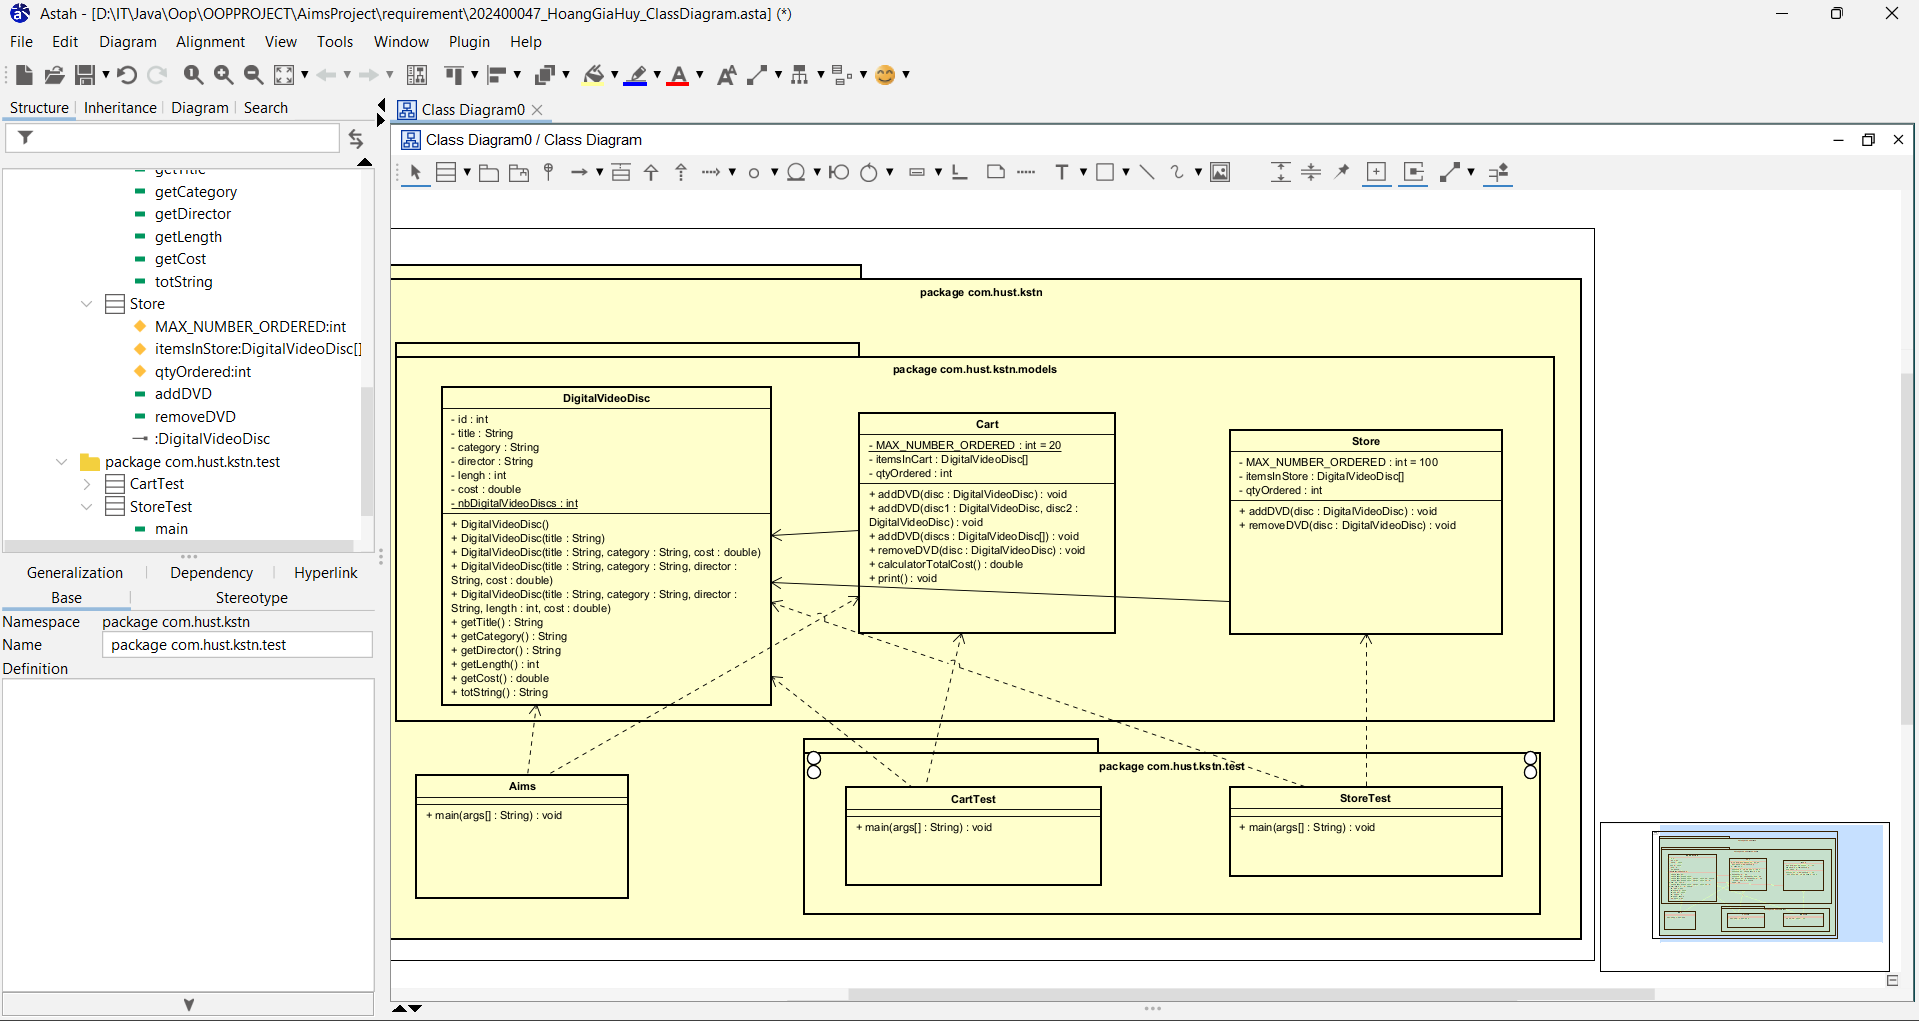
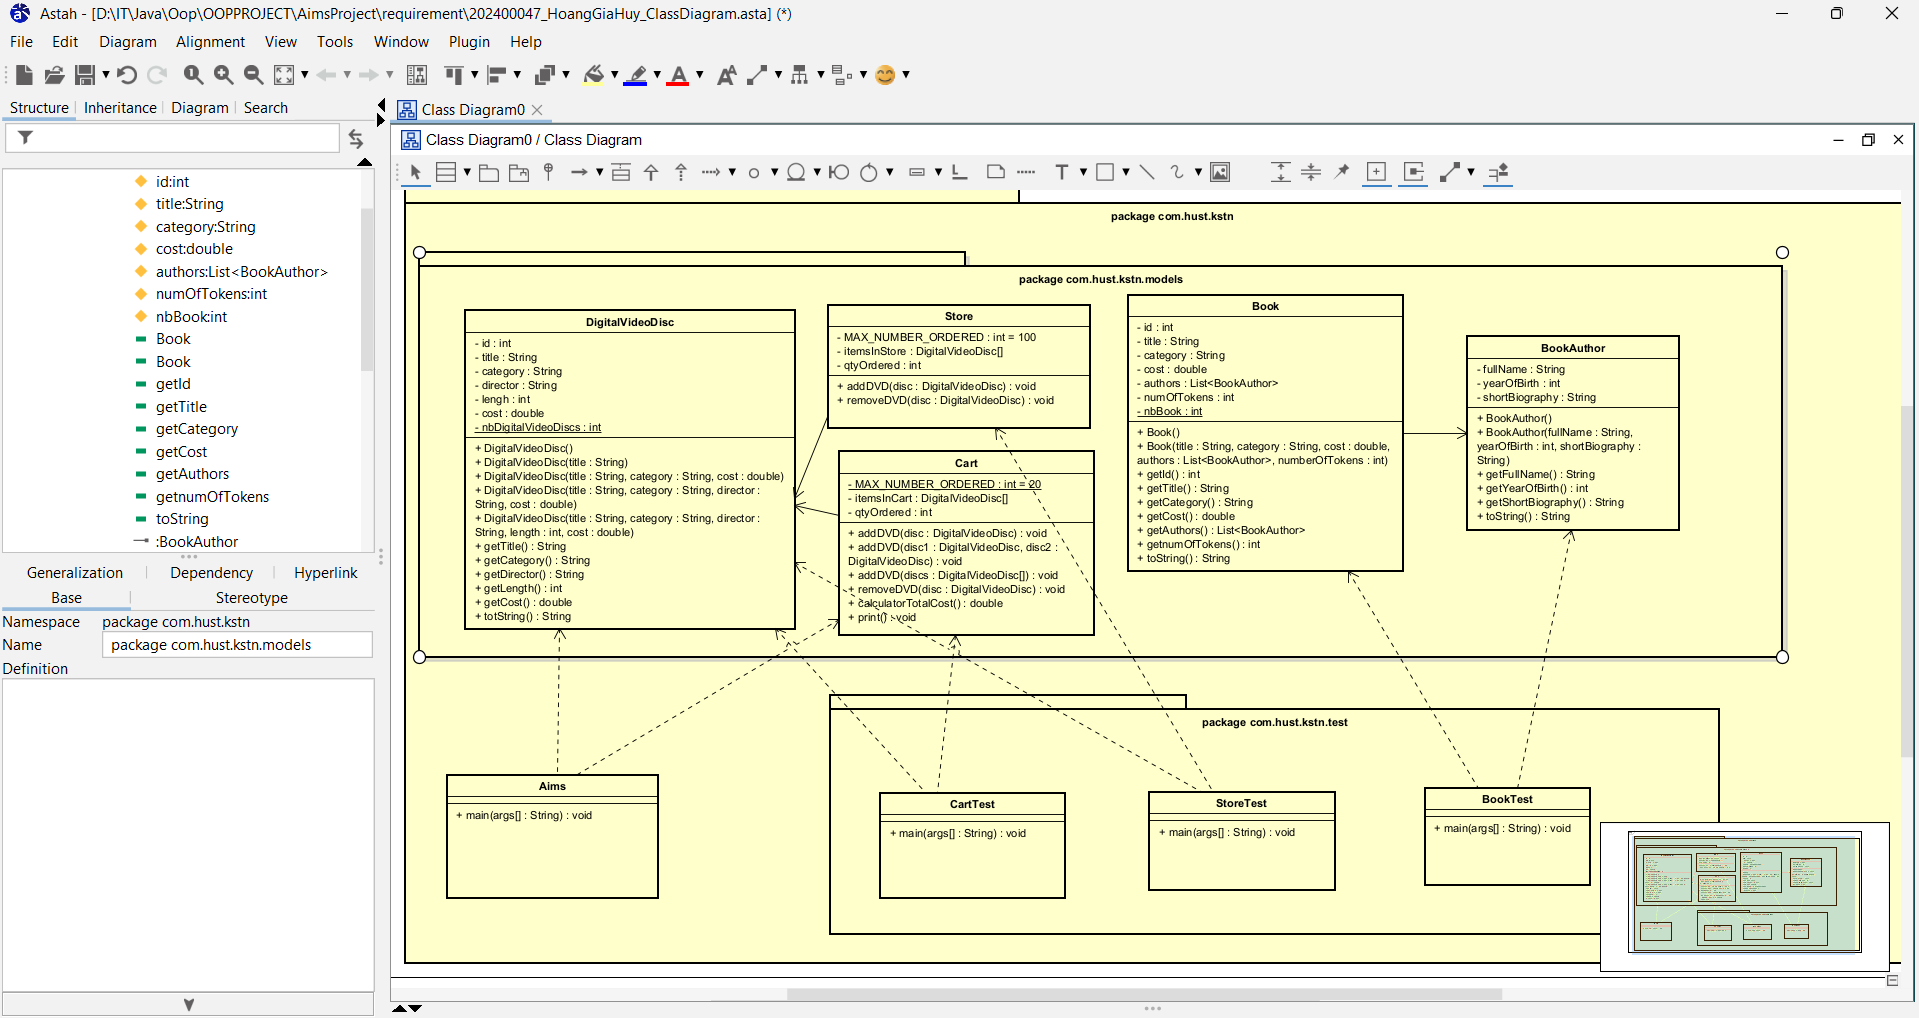
create class Book, BookAuthor and BookTest

diff --git a/AimsProject/src/com/hust/kstn/models/Book.java b/AimsProject/src/com/hust/kstn/models/Book.java
@@ -1,0 +1,63 @@
+package com.hust.kstn.models;
+
+import java.util.ArrayList;
+import java.util.List;
+
+public class Book {
+    private int id;
+    private String title;
+    private String category;
+    private double cost;
+    private List<BookAuthor> authors = new ArrayList<>();
+    private int numOfTokens;
+    private static int nbBook = 0;
+
+    public Book() {
+        nbBook ++;
+        this.id = nbBook;
+    }
+
+    public Book(String title, String category, double cost, List<BookAuthor> authors, int numOfTokens) {
+        nbBook ++;
+        this.id = nbBook;
+        this.title = title;
+        this.category = category;
+        this.cost = cost;
+        this.authors = authors;
+        this.numOfTokens = numOfTokens;
+    }
+
+    public int getId() {
+        return id;
+    }
+
+    public String getTitle() {
+        return title;
+    }
+
+    public String getCategory() {
+        return category;
+    }
+
+    public double getCost() {
+        return cost;
+    }
+
+    public List<BookAuthor> getAuthors() {
+        return authors;
+    }
+
+    public int getnumOfTokens() {
+        return numOfTokens;
+    }
+
+    @Override
+    public String toString() {
+        return "- Book[" + this.id + "] - ["
+                + this.title + "] - ["
+                + this.cost + "] - ["
+                + this.category + "] - ["
+                + this.numOfTokens + "]"
+                + "\nAuthors: " + this.authors;
+    }
+}

diff --git a/AimsProject/src/com/hust/kstn/models/BookAuthor.java b/AimsProject/src/com/hust/kstn/models/BookAuthor.java
@@ -1,0 +1,34 @@
+package com.hust.kstn.models;
+
+public class BookAuthor {
+    private String fullName;
+    private int yearOfBirth;
+    private String shortBiography;
+
+    public BookAuthor() {}
+
+    public BookAuthor(String fullName, int yearOfBirth, String shortBiography) {
+        this.fullName = fullName;
+        this.yearOfBirth = yearOfBirth;
+        this.shortBiography = shortBiography;
+    }
+
+    public String getFullName() {
+        return fullName;
+    }
+
+    public int getYearOfBirth() {
+        return yearOfBirth;
+    }
+
+    public String getShortBiography() {
+        return shortBiography;
+    }
+
+    @Override
+    public String toString() {
+        return this.fullName + " ("
+                + this.yearOfBirth + ", "
+                + this.shortBiography + ")\n";
+    }
+}

diff --git a/AimsProject/src/com/hust/kstn/test/BookTest.java b/AimsProject/src/com/hust/kstn/test/BookTest.java
@@ -1,0 +1,24 @@
+package com.hust.kstn.test;
+
+import com.hust.kstn.models.Book;
+import com.hust.kstn.models.BookAuthor;
+
+import java.util.ArrayList;
+import java.util.List;
+
+public class BookTest {
+    public static void main(String[] args) {
+        BookAuthor ba1 = new BookAuthor("Nguyen Nhat", 1910, "Sciencetist");
+        BookAuthor ba2 = new BookAuthor("Nguyen Nhi", 1920, "Sciencetist");
+        System.out.print(ba1.toString());
+        System.out.println();
+
+        List<BookAuthor> bookAuthors = new ArrayList<>();
+        bookAuthors.add(ba1);
+        bookAuthors.add(ba2);
+
+        Book book = new Book("10 van cau hoi vi sao", "Science", 10.0,
+                bookAuthors, 100);
+        System.out.print(book.toString());
+    }
+}

diff --git a/AimsProject/src/com/hust/kstn/models/DigitalVideoDisc.java b/AimsProject/src/com/hust/kstn/models/DigitalVideoDisc.java
@@ -7,7 +7,11 @@ public class DigitalVideoDisc {
     private String director;
     private int length;
     private double cost;
-    private static int  nbDigitalVideoDiscs= 0;
+    private static int nbDigitalVideoDiscs = 0;
+
+    public int getId() {
+        return id;
+    }
 
     public String getTitle() {
         return title;
